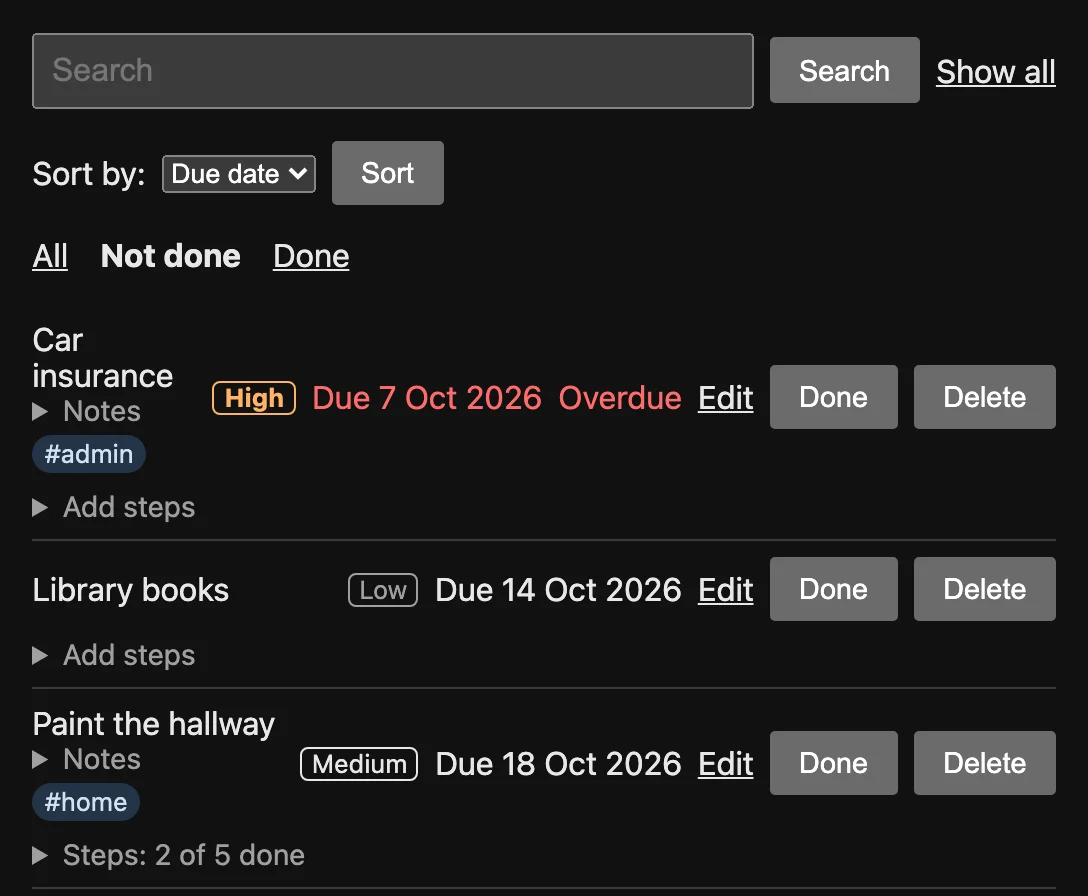
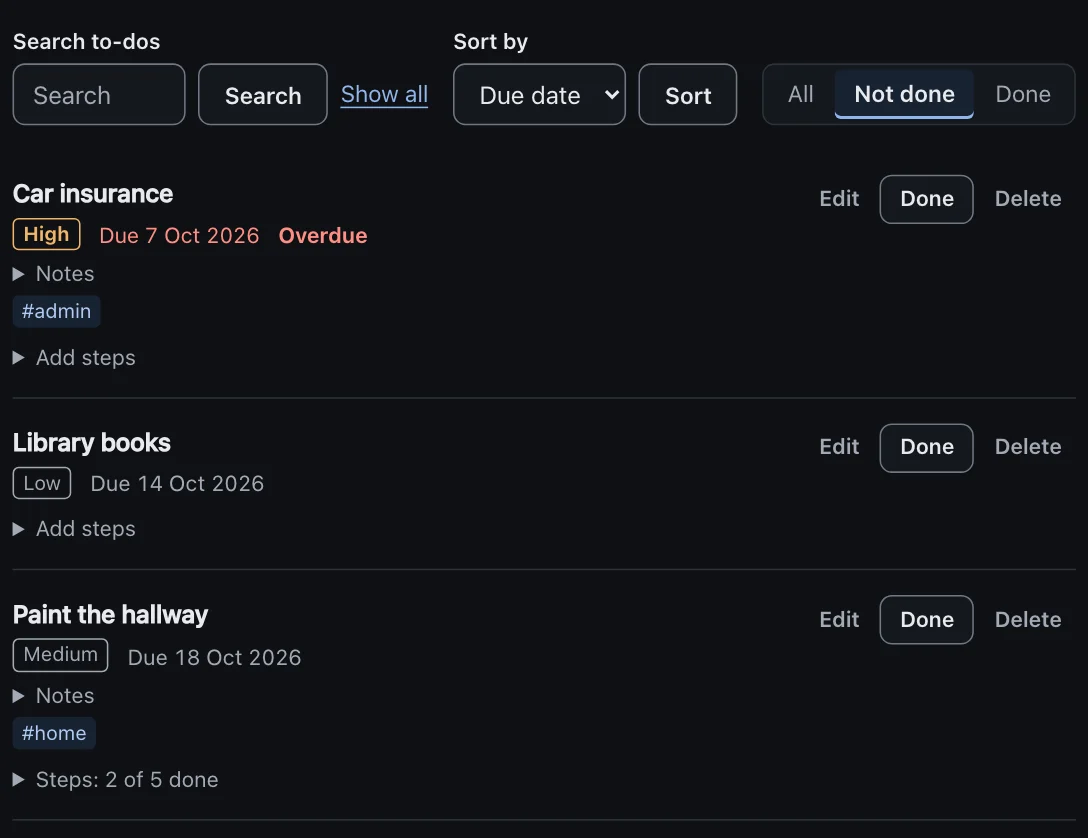
Retake the landing pictures of the redesigned app
`make landing-shots` took the 7 pairs again (light and dark WebP, 1088px
wide, 8 to 45 kB each), so the landing, login and sign-up pages show the
app as it looks now. The width and height in landing.html and
_auth_shot.html are the real sizes of the new files, so the page does not
jump while they load. Every alt text still describes its picture.

diff --git a/todos/templates/todos/landing.html b/todos/templates/todos/landing.html
@@ -32,8 +32,8 @@
           </div>
         </div>
         <picture class="shot hero-shot">
-          <source srcset="{% static 'todos/landing/list-dark.webp' %}" media="(prefers-color-scheme: dark)" width="1088" height="1266">
-          <img src="{% static 'todos/landing/list-light.webp' %}" width="1088" height="1266" fetchpriority="high"
+          <source srcset="{% static 'todos/landing/list-dark.webp' %}" media="(prefers-color-scheme: dark)" width="1088" height="1212">
+          <img src="{% static 'todos/landing/list-light.webp' %}" width="1088" height="1212" fetchpriority="high"
                alt="The Home list: the menu of lists, the form to add a to-do, search and sort, and two to-dos with a priority, a due date and a tag. One is overdue, the other shows Steps: 2 of 5 done.">
         </picture>
       </div>
@@ -48,16 +48,16 @@
         <div class="pair">
           <figure>
             <picture class="shot">
-              <source srcset="{% static 'todos/landing/share-owner-dark.webp' %}" media="(prefers-color-scheme: dark)" width="1088" height="466">
-              <img src="{% static 'todos/landing/share-owner-light.webp' %}" width="1088" height="466" loading="lazy" decoding="async"
+              <source srcset="{% static 'todos/landing/share-owner-dark.webp' %}" media="(prefers-color-scheme: dark)" width="1088" height="365">
+              <img src="{% static 'todos/landing/share-owner-light.webp' %}" width="1088" height="365" loading="lazy" decoding="async"
                    alt="The Sharing part of a list: two members, theo and ines, each with a Remove button, and a field to share the list with one more username.">
             </picture>
             <figcaption class="muted">You own the list: you see who is in it, and you can remove anyone.</figcaption>
           </figure>
           <figure>
             <picture class="shot">
-              <source srcset="{% static 'todos/landing/share-member-dark.webp' %}" media="(prefers-color-scheme: dark)" width="1088" height="334">
-              <img src="{% static 'todos/landing/share-member-light.webp' %}" width="1088" height="334" loading="lazy" decoding="async"
+              <source srcset="{% static 'todos/landing/share-member-dark.webp' %}" media="(prefers-color-scheme: dark)" width="1088" height="238">
+              <img src="{% static 'todos/landing/share-member-light.webp' %}" width="1088" height="238" loading="lazy" decoding="async"
                    alt="The same list seen by theo, a member: it is under Shared with me, and the page says Shared by mara.">
             </picture>
             <figcaption class="muted">A member finds it under Shared with me, and can leave it at any time.</figcaption>
@@ -69,8 +69,8 @@
     <section class="section steps" aria-labelledby="steps-title">
       <div class="container split">
         <picture class="shot">
-          <source srcset="{% static 'todos/landing/steps-dark.webp' %}" media="(prefers-color-scheme: dark)" width="1088" height="612">
-          <img src="{% static 'todos/landing/steps-light.webp' %}" width="1088" height="612" loading="lazy" decoding="async"
+          <source srcset="{% static 'todos/landing/steps-dark.webp' %}" media="(prefers-color-scheme: dark)" width="1088" height="658">
+          <img src="{% static 'todos/landing/steps-light.webp' %}" width="1088" height="658" loading="lazy" decoding="async"
                alt="The to-do Paint the hallway with its steps open: 2 of 5 done, the done steps crossed out, and a field to add one more step.">
         </picture>
         <div class="split-text">
@@ -114,8 +114,8 @@
               <p>Search titles, notes and tags. Show all, not done or done. Sort by date, priority, title or your own order.</p>
             </div>
             <picture class="cell-shot">
-              <source srcset="{% static 'todos/landing/find-dark.webp' %}" media="(prefers-color-scheme: dark)" width="1088" height="896">
-              <img src="{% static 'todos/landing/find-light.webp' %}" width="1088" height="896" loading="lazy" decoding="async"
+              <source srcset="{% static 'todos/landing/find-dark.webp' %}" media="(prefers-color-scheme: dark)" width="1088" height="838">
+              <img src="{% static 'todos/landing/find-light.webp' %}" width="1088" height="838" loading="lazy" decoding="async"
                    alt="A list showing only the to-dos that are not done, sorted by due date, with the overdue one first.">
             </picture>
           </div>
@@ -125,8 +125,8 @@
               <p>Drag a to-do by its handle, or use the arrow buttons to move it up or down.</p>
             </div>
             <picture class="cell-shot">
-              <source srcset="{% static 'todos/landing/order-dark.webp' %}" media="(prefers-color-scheme: dark)" width="1088" height="734">
-              <img src="{% static 'todos/landing/order-light.webp' %}" width="1088" height="734" loading="lazy" decoding="async"
+              <source srcset="{% static 'todos/landing/order-dark.webp' %}" media="(prefers-color-scheme: dark)" width="1088" height="784">
+              <img src="{% static 'todos/landing/order-light.webp' %}" width="1088" height="784" loading="lazy" decoding="async"
                    alt="A list in the Manual order: each to-do has a drag handle and arrow buttons to move it up or down.">
             </picture>
           </div>
@@ -155,9 +155,9 @@
         </div>
         <figure class="compare">
           <div class="compare-frame">
-            <img src="{% static 'todos/landing/compare-light.webp' %}" width="1088" height="838" loading="lazy" decoding="async"
+            <img src="{% static 'todos/landing/compare-light.webp' %}" width="1088" height="933" loading="lazy" decoding="async"
                  alt="The Garden list in light mode.">
-            <img class="compare-dark" src="{% static 'todos/landing/compare-dark.webp' %}" width="1088" height="838" loading="lazy" decoding="async"
+            <img class="compare-dark" src="{% static 'todos/landing/compare-dark.webp' %}" width="1088" height="933" loading="lazy" decoding="async"
                  alt="The same Garden list in dark mode.">
           </div>
           <figcaption class="muted">The same list: light mode on the left, dark mode on the right.</figcaption>

diff --git a/accounts/templates/registration/_auth_shot.html b/accounts/templates/registration/_auth_shot.html
@@ -5,7 +5,7 @@
   loading="lazy", so a phone, which does not show it, does not download it.
 {% endcomment %}
 <picture class="shot auth-shot">
-  <source srcset="{% static 'todos/landing/list-dark.webp' %}" media="(prefers-color-scheme: dark)" width="1088" height="1266">
-  <img src="{% static 'todos/landing/list-light.webp' %}" width="1088" height="1266" loading="lazy" decoding="async"
+  <source srcset="{% static 'todos/landing/list-dark.webp' %}" media="(prefers-color-scheme: dark)" width="1088" height="1212">
+  <img src="{% static 'todos/landing/list-light.webp' %}" width="1088" height="1212" loading="lazy" decoding="async"
        alt="The Home list: the menu of lists, the form to add a to-do, search and sort, and two to-dos with a priority, a due date and a tag. One is overdue, the other shows Steps: 2 of 5 done.">
 </picture>
